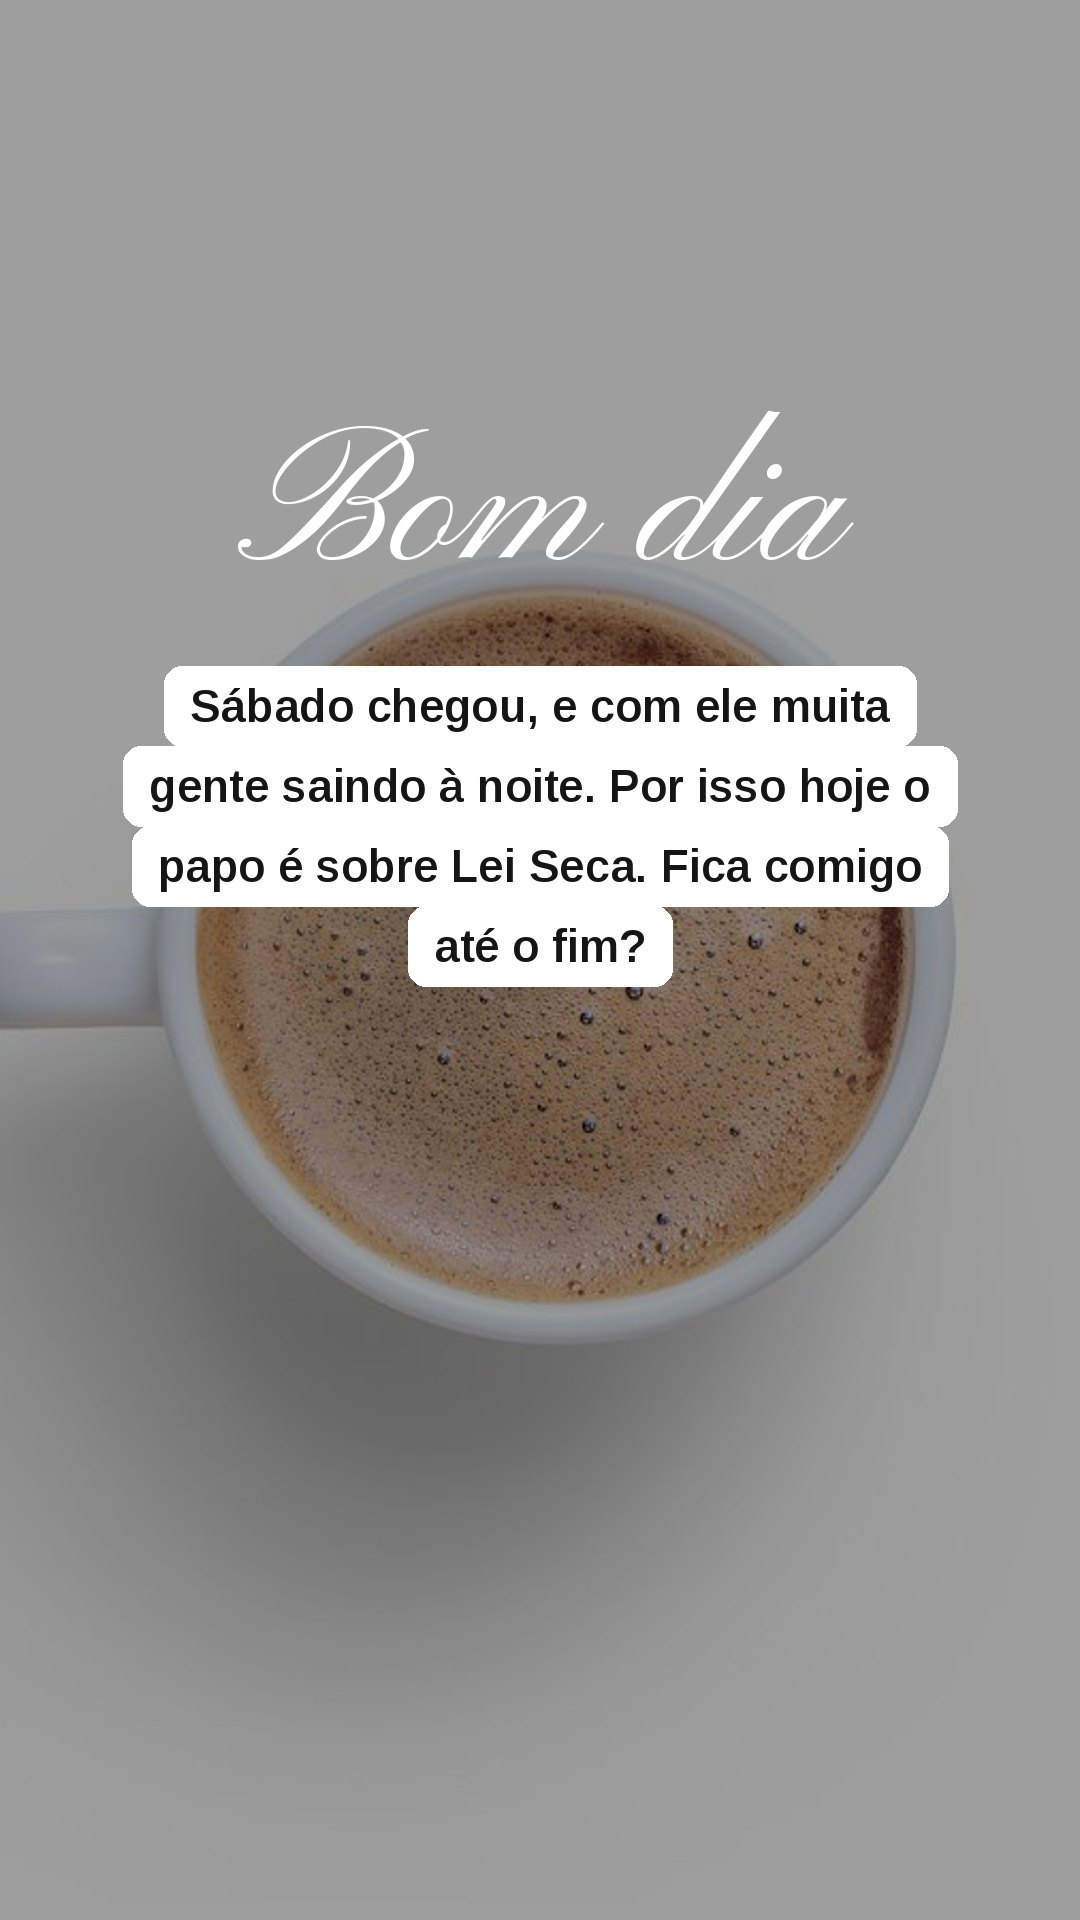
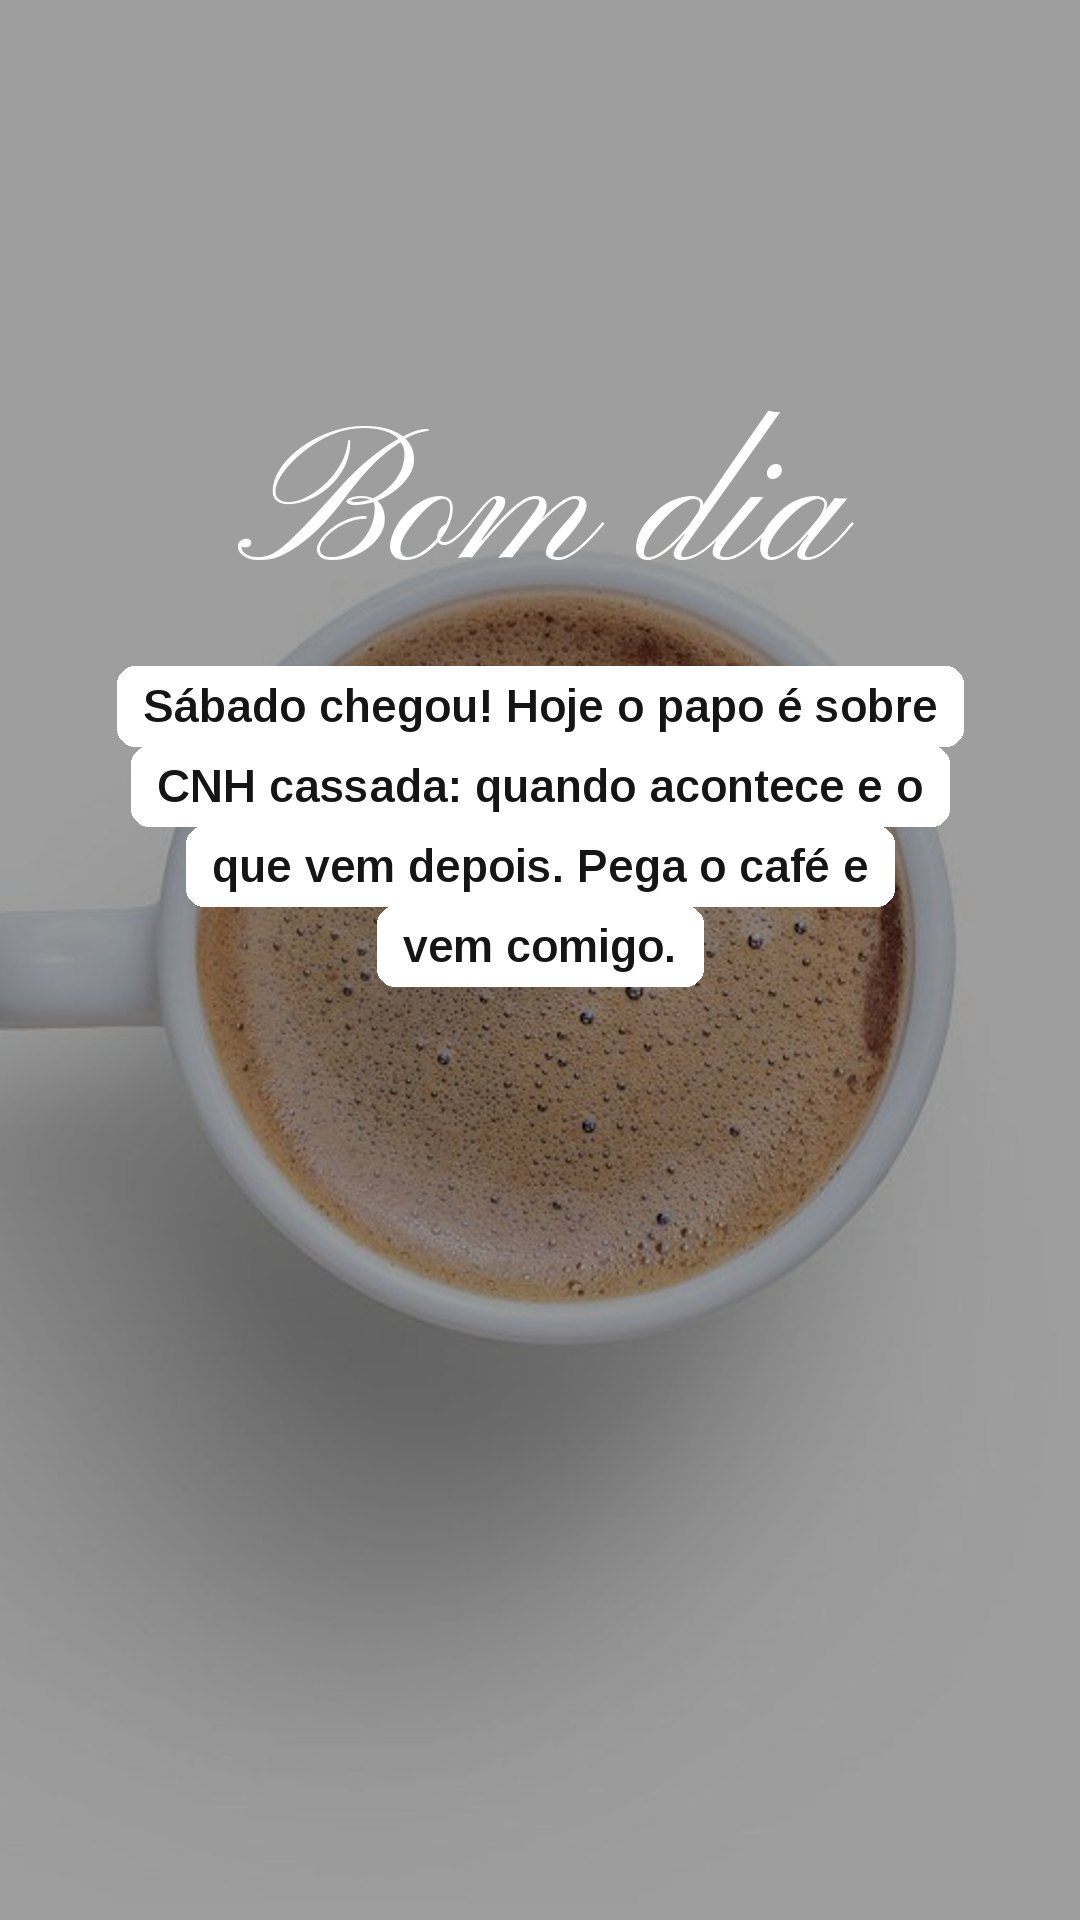
stories gerados: 2026-11-27

Changed region(s): [[0.0917, 0.3438, 0.9167, 0.5312]]

diff --git a/docs/index.html b/docs/index.html
@@ -6,5 +6,5 @@ p{margin:0 0 24px;color:#555}ul{list-style:none;padding:0;margin:0}li{background
 span{display:block;font-size:13px;color:#777;margin-bottom:4px}a{color:#161515;font-weight:600;text-decoration:none}</style></head>
 <body><main><h1>Notícias dos stories</h1><p>@dradasmultas · os links das notícias comentadas nos stories, da mais nova para a mais antiga.</p>
 <ul>
-
+<li><span>28/11 · Catve.com · 27/11</span><a href="https://catve.com/noticia/9/488966/motorista-embriagado-e-com-cnh-suspensa-e-flagrado-na-contramao-em-cascavel" rel="noopener" target="_blank">Bêbado, na contramão e com a CNH suspensa no Paraná</a></li>
 </ul></main></body></html>
